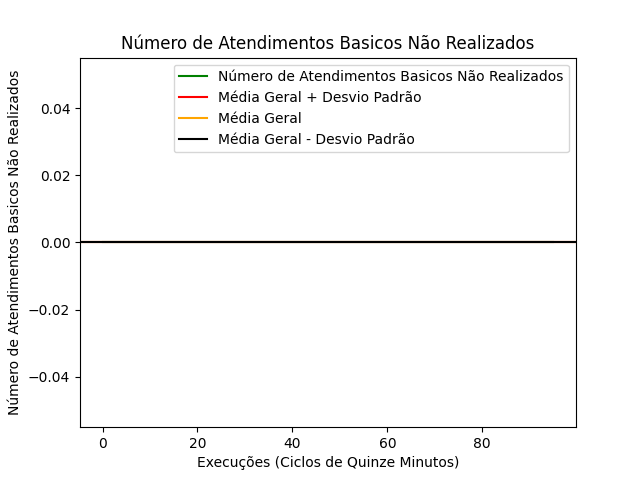
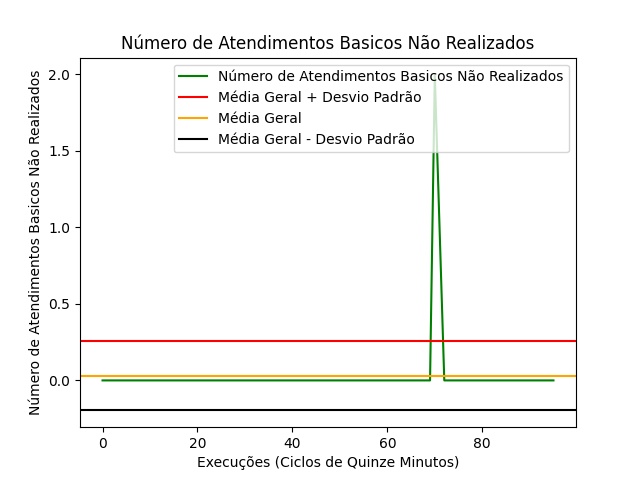
Adicionando os Atendimentos

Changed region(s): [[0.0, 0.1562, 0.9062, 0.875], [0.125, 0.8438, 0.9062, 0.875]]

diff --git a/day-time-execution/designacao.py b/day-time-execution/designacao.py
@@ -81,8 +81,28 @@ ambulanciasBasicas: List[Dict[str, int]] = Ambulancias.generate(Environment.BASI
 
 simulacao = 0
 
-atendimentos_avancados_por_ciclo_de_tempo = NumeroDeAtendimentosPorIntervaloDeTempo.generate(50)
-atendimentos_basicos_por_ciclo_de_tempo = NumeroDeAtendimentosPorIntervaloDeTempo.generate(300)
+atendimentos_avancados_por_ciclo_de_tempo = NumeroDeAtendimentosPorIntervaloDeTempo.generate(80)
+atendimentos_basicos_por_ciclo_de_tempo = NumeroDeAtendimentosPorIntervaloDeTempo.generate(400)
+
+# Exibindo o histograma
+plt.figure(figsize=(15, 5))
+plt.bar(np.arange(96), atendimentos_basicos_por_ciclo_de_tempo, width=0.8, align='center', color="green")
+plt.xlabel('Intervalos de 15 minutos ao longo do dia')
+plt.ylabel('Número de Ocorrências Básicas')
+plt.title('Distribuição de Ocorrências Básicas ao Longo do Dia')
+plt.xticks(np.arange(0, 96, 4))
+plt.grid(True)
+plt.show()
+    
+# Exibindo o histograma
+plt.figure(figsize=(15, 5))
+plt.bar(np.arange(96), atendimentos_avancados_por_ciclo_de_tempo, width=0.8, align='center', color="blue")
+plt.xlabel('Intervalos de 15 minutos ao longo do dia')
+plt.ylabel('Número de Ocorrências Avançadas')
+plt.title('Distribuição de Ocorrências Avançadas ao Longo do Dia')
+plt.xticks(np.arange(0, 96, 4))
+plt.grid(True)
+plt.show()
 
 for ciclo_de_simulacao in tqdm(range(0, CICLOS_DA_SIMULACAO)):
     TEMPO_ATUAL = simulacao * TEMPO_ENTRE_SIMULACOES
